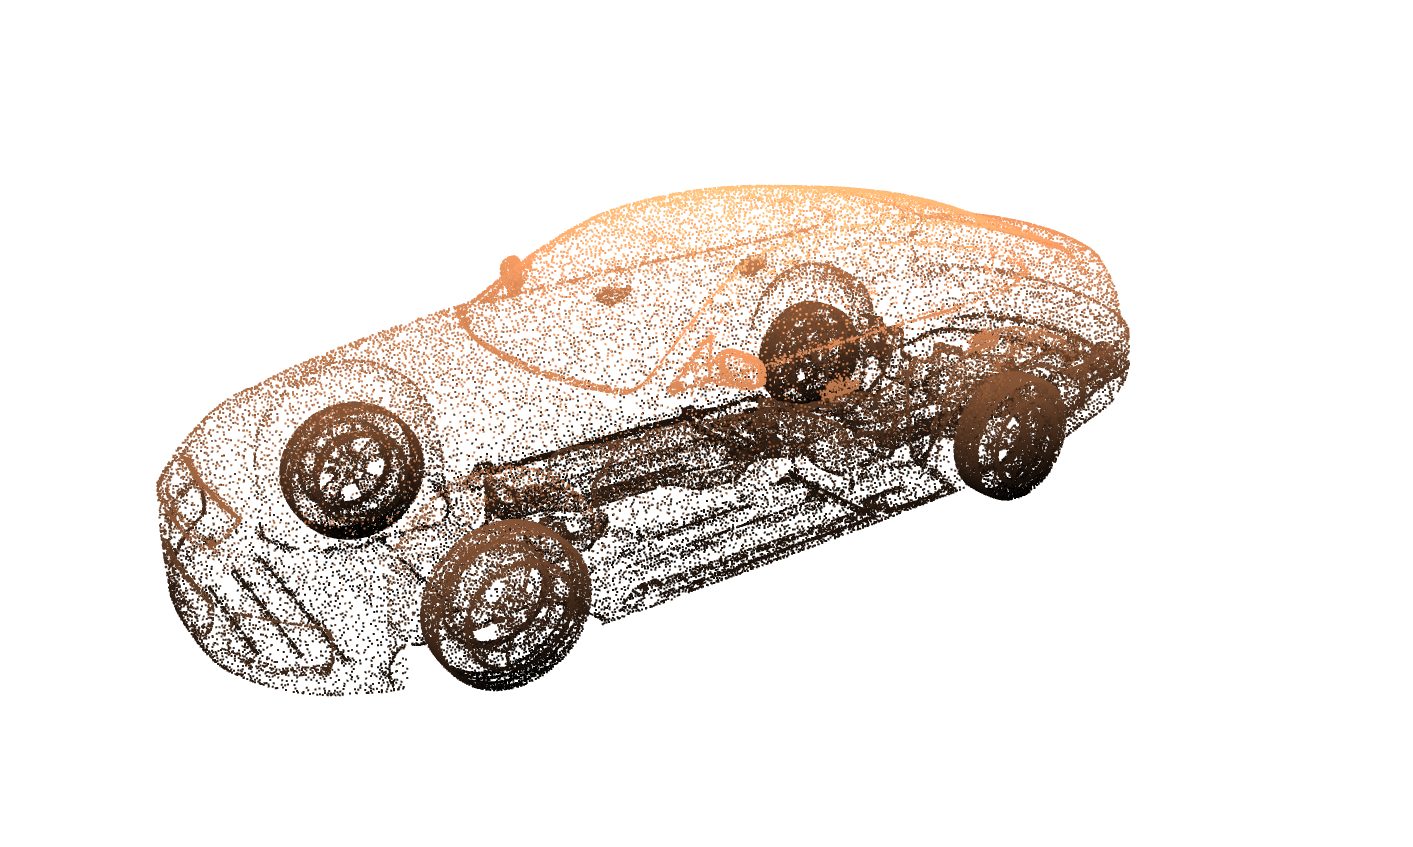
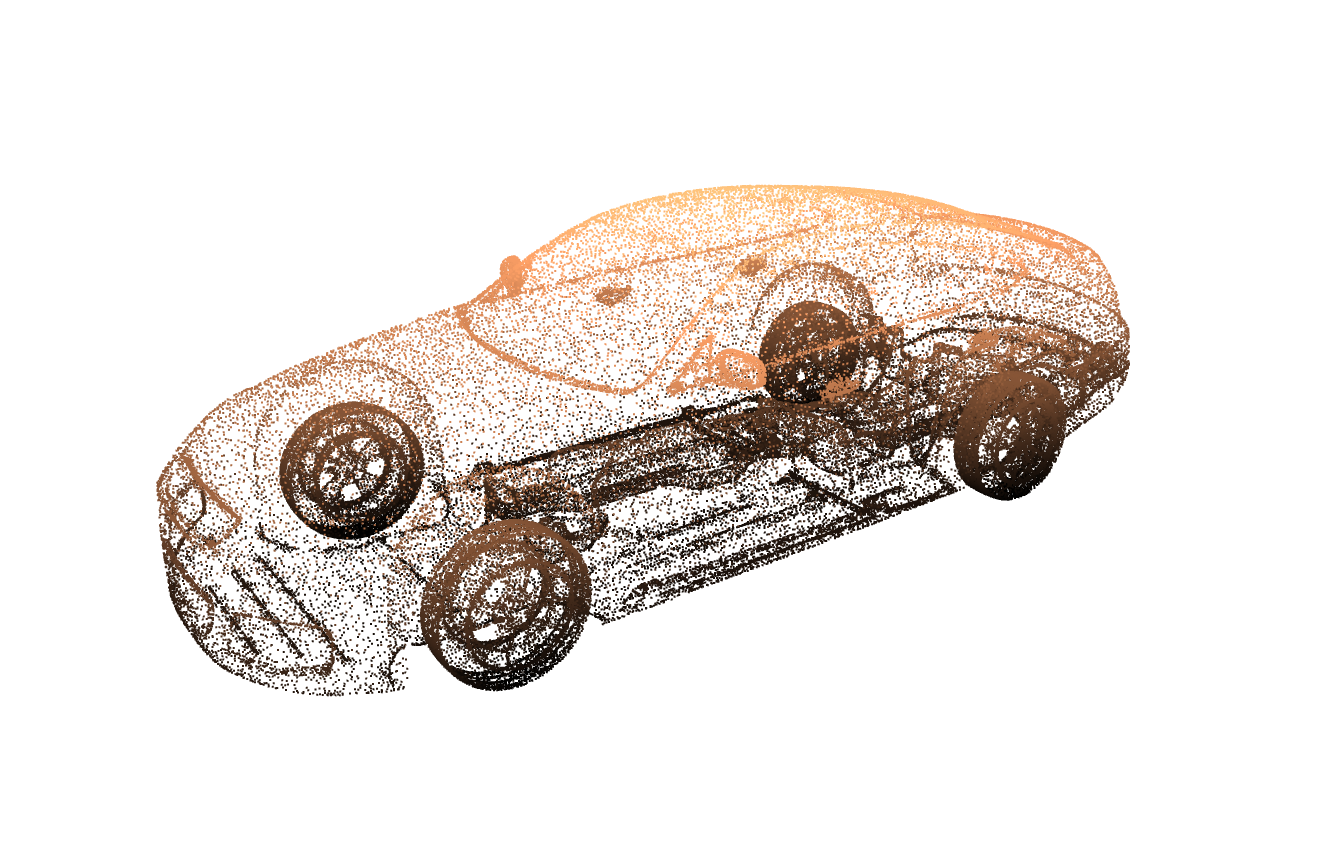
image and date corrected on cd-prediction paper

Changed region(s): [[0.0933, 0.2149, 0.871, 0.8288]]

diff --git a/content/publication/cd-prediction/index.md b/content/publication/cd-prediction/index.md
@@ -2,7 +2,7 @@
 title: "Car Drag Coefficient Prediction from 3D Point Clouds Using a Slice-Based Surrogate Model"
 authors:
 - admin
-date: "2019-04-07T00:00:00Z"
+date: "2025-09-21T00:00:00Z"
 
 # Schedule page publish date (NOT publication's date).
 publishDate: "2017-01-01T00:00:00Z"
